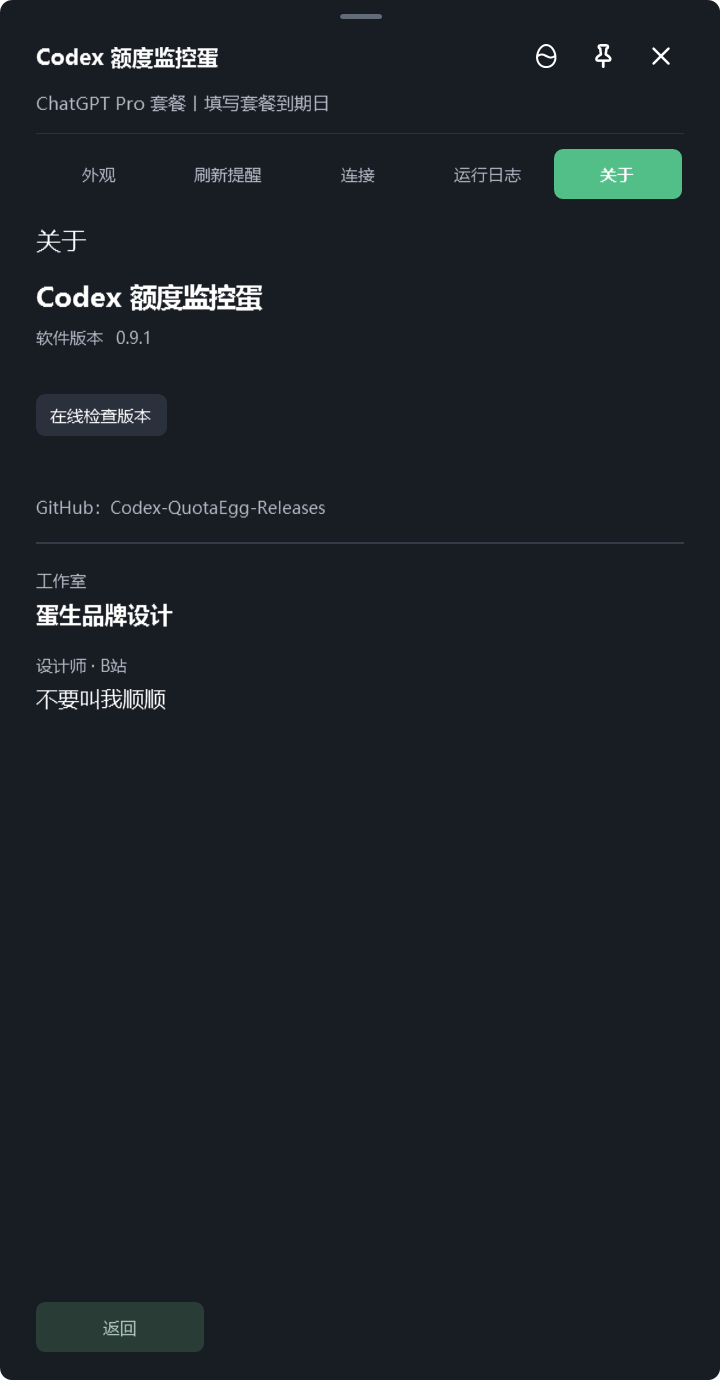
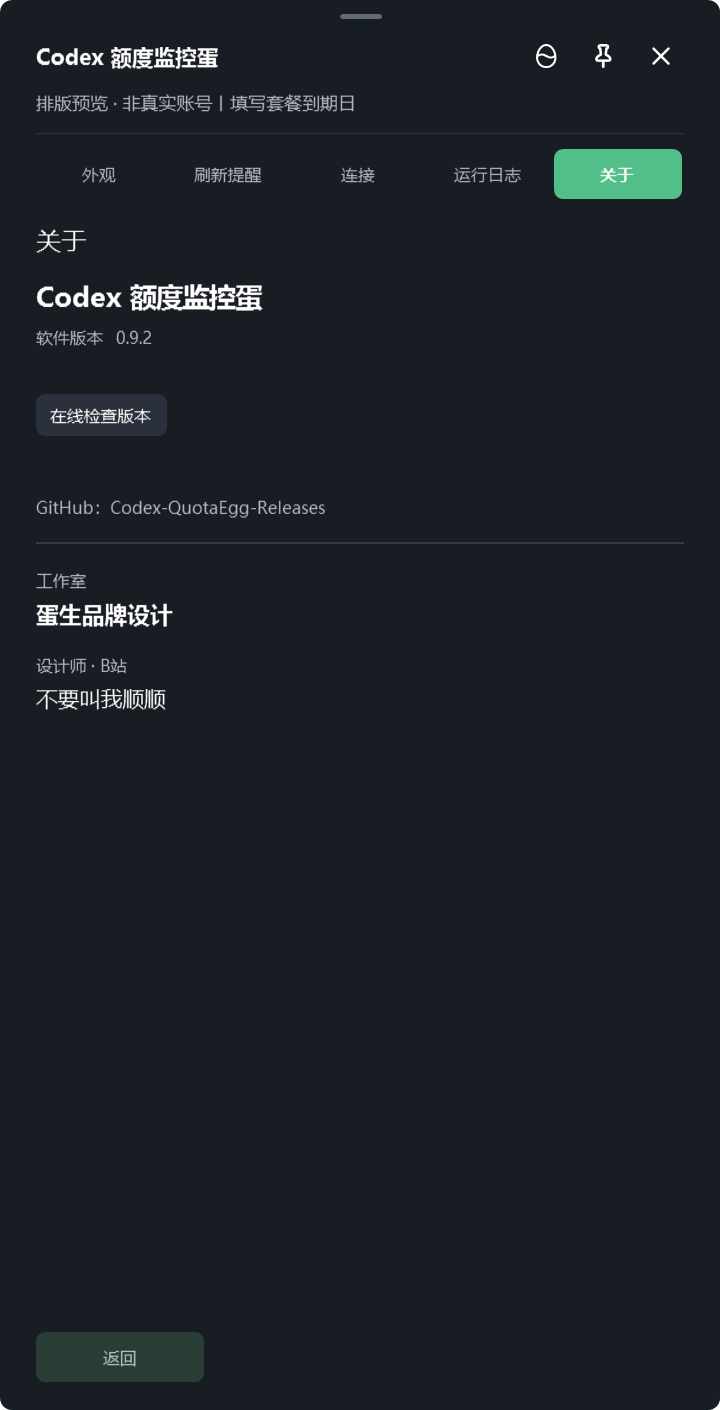
docs: v0.9.2 features, native UI screenshots and animated quota states

diff --git a/README.md b/README.md
@@ -1,47 +1,66 @@
-# Codex QuotaEgg
+# Codex QuotaEgg · Codex 额度监控蛋
 
-Codex 额度监控蛋是一款 Windows 本地额度查看工具，提供主窗口、托盘图标和液体悬浮蛋。
+在 Windows 桌面查看 Codex 剩余额度：主窗口、彩色托盘与会晃动的液体悬浮蛋。
 
-这是闭源软件的公开下载仓库，不包含源代码。
+本仓库仅提供闭源软件的官方发行文件，不包含程序源代码。“官方发行”指本项目作者发布，不代表 OpenAI 官方产品。
 
-## 下载
+## 下载 v0.9.2
 
-当前测试版：v0.9.1 · Windows 10/11 x64
+Windows 10/11 x64 · 测试版 · 无需另装 .NET
 
-- [下载安装版 MSI（推荐）](https://github.com/BUYAOJIAOWOSHUNSHUN/Codex-QuotaEgg-Releases/releases/download/v0.9.1/Codex-QuotaEgg-0.9.1-setup.msi) — 下载后双击安装，可升级旧安装版。
-- [下载免安装版 ZIP](https://github.com/BUYAOJIAOWOSHUNSHUN/Codex-QuotaEgg-Releases/releases/download/v0.9.1/Codex-QuotaEgg-0.9.1-portable.zip) — 完整解压后运行 `Codex QuotaEgg.exe`。
-- [下载 SHA-256 校验文件](https://github.com/BUYAOJIAOWOSHUNSHUN/Codex-QuotaEgg-Releases/releases/download/v0.9.1/SHA256SUMS.txt)
-- [查看更新说明与全部历史版本](https://github.com/BUYAOJIAOWOSHUNSHUN/Codex-QuotaEgg-Releases/releases)
+- [安装版 MSI（推荐，可升级旧安装版）](https://github.com/BUYAOJIAOWOSHUNSHUN/Codex-QuotaEgg-Releases/releases/download/v0.9.2/Codex-QuotaEgg-0.9.2-setup.msi)
+- [免安装版 ZIP（完整解压后运行）](https://github.com/BUYAOJIAOWOSHUNSHUN/Codex-QuotaEgg-Releases/releases/download/v0.9.2/Codex-QuotaEgg-0.9.2-portable.zip)
+- [SHA-256 校验文件](https://github.com/BUYAOJIAOWOSHUNSHUN/Codex-QuotaEgg-Releases/releases/download/v0.9.2/SHA256SUMS.txt)
+- [更新说明与历史安装包](https://github.com/BUYAOJIAOWOSHUNSHUN/Codex-QuotaEgg-Releases/releases)
 
-请不要下载 GitHub 自动生成的 Source code 压缩包，它们不是可运行程序。
+GitHub 自动生成的 Source code 压缩包不是可运行程序。
 
-## 本版更新
+## 液体额度蛋
 
-- 放大桌面与进程列表中的应用图标，补齐多尺寸 ICO 图层。
-- 移除“自动更新”设置和后台预下载；启动、手动刷新只检查版本，点击更新后才下载并安装。
-- 更新检查选择最高已发布且有安装资源的版本。
-- 包含主窗口排版、全量重置预测说明和木鱼互动。
+额度百分比、液位和颜色同步变化；拖动时液体会晃动。下图由 v0.9.2 原生控件生成，10%、40%、70%、89% 均为示例额度，并非真实账号数据。
 
-## 界面预览
+![10%、40%、70%、89% 四种状态动态展示](media/egg-states.gif)
 
-![主窗口](media/main-window.png)
+## v0.9.2 新功能
 
-![悬浮蛋拖拽演示](media/floating-egg.gif)
+- 主窗口拖到左侧、右侧或顶部可吸附隐藏。鼠标离开后收起，移到细边展开；拖回屏幕内部解除吸附。设置 → 外观可关闭“主窗口贴边隐藏”。
+- 收起、展开使用逐帧平滑移动；隐藏后的触发区限制在所属屏幕细边，修复其他屏幕点击误展开。
+- 手动更新分为“正在下载”“正在安装”“更新完成”：下载显示已知大小的真实百分比，安装显示等待时间；网络无进度时提示等待响应并进行有界重试。
+- 修正全量重置概率与预测日期旁两个说明图标的符号对齐。
 
-![外观设置](media/appearance-settings.png)
+![贴边隐藏操作示意](media/edge-hide.gif)
 
-![关于与手动更新](media/about-settings.png)
+上图使用新版真实界面合成动作示意，演示右侧收起与展开；不是桌面实录，也不代表实际运行帧率。
 
-## 说明
+## 最新界面
 
-- 支持 Windows 10/11 x64。
-- 需要先安装 Codex 并使用 ChatGPT 账号登录。
-- 软件只读查询额度，不发起模型对话，不使用重置卡。
-- 本项目为非官方工具，与 OpenAI 没有隶属、合作或背书关系。
-- 当前程序未进行代码签名，Windows 可能显示未知发布者提示。
+以下为 v0.9.2 程序渲染的界面截图，额度与日历均使用示例数据。
 
-## 版权与第三方许可
+### 主窗口
+
+![v0.9.2 主窗口](media/main-window.png)
+
+### 外观设置
+
+![v0.9.2 外观设置与贴边隐藏开关](media/appearance-settings.png)
+
+### 关于与在线更新
+
+![v0.9.2 关于页面](media/about-settings.png)
+
+## 使用说明
+
+1. 先安装 Codex 并使用 ChatGPT 账号登录。
+2. 安装 MSI，或完整解压 ZIP 后运行 `Codex QuotaEgg.exe`。
+3. 主窗口查看额度，右上角切换额度蛋；主窗口和托盘使用一致的额度颜色。消耗速度提示另按时间进度判断，不等同于剩余额度颜色。
+4. 启动与手动刷新会检查新版本；点击更新才下载和安装，没有后台自动下载安装开关。旧版升级到本版时，下载阶段仍由旧版界面显示，新进度界面用于本版今后的更新。
+
+额度查询不发起模型对话，不消耗重置卡；日历来源为 codex-resets.com，全量重置预测仅供参考，不是确定日程。说明图标可查看计算口径。
+
+本项目为非官方工具，与 OpenAI 无隶属、合作或背书关系。程序未进行代码签名，Windows 可能提示未知发布者。遇到下载停滞可稍后重试，或从本页手动下载安装包。
+
+## 许可
 
 Copyright (c) 2026 SHUNx2. All rights reserved.
 
-本软件为闭源专有软件。可安装和使用版权所有者正式发布的未修改可执行版本；未经书面许可不得重新分发或修改。第三方组件继续适用各自许可证，详见本仓库及发行包中的许可文件。
+本软件为闭源专有软件，可安装和使用作者正式发布的未修改版本；未经书面许可不得重新分发或修改。第三方组件依其原许可证，详见发行包与仓库中的许可文件。
